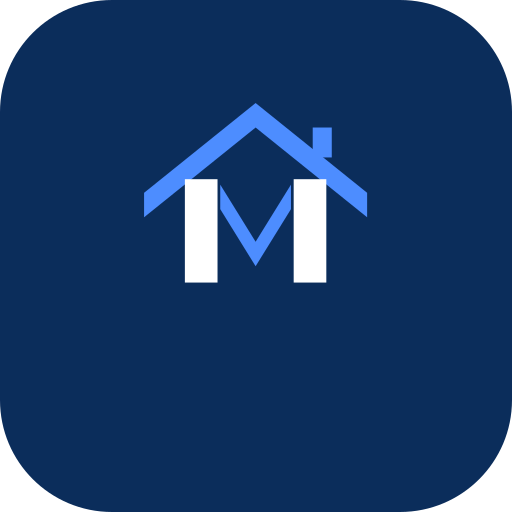
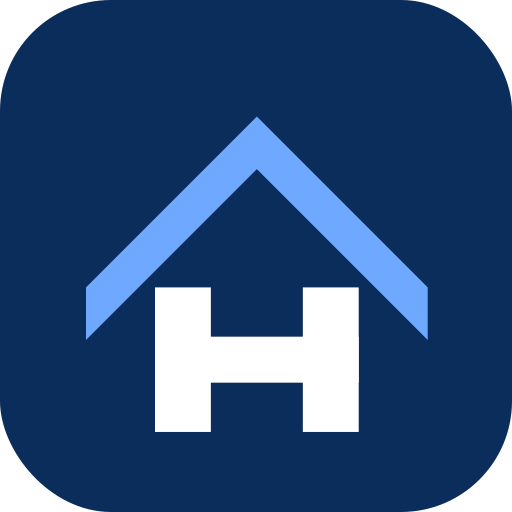
Brand: rediseñar marca HELPMAN para máxima legibilidad
- Nueva marca: casa geométrica gruesa con H integrada (antes: detalles
  finos que se volvían mancha irreconocible bajo 100px)
- Nuevo lockup: marca 35% más grande respecto al texto
- Favicon/íconos: casa blanca sobre fondo navy redondeado, legible
  hasta 16px
- Header: logo 50px desktop / 42px móvil (antes 42/34)
- Regenerados: apple-touch-icon, icon-192/512, helpman-mark.png,
  helpman-logo-primary.png

diff --git a/public/css/helpman-v2.css b/public/css/helpman-v2.css
@@ -33,5 +33,5 @@ body{color:var(--hm-ink);background:#fff}
 .site-footer .wrap{grid-template-columns:1.4fr repeat(3,1fr)}.hm-footer-brand{font-weight:900;font-size:1.25rem;letter-spacing:-.035em}.hm-legal-operator{color:inherit;opacity:.72;font-size:.78rem}
 @media(max-width:900px){.hm-hero-grid,.hm-protection{grid-template-columns:1fr}.hm-value-grid{grid-template-columns:1fr}.hm-request-card{max-width:620px}.site-footer .wrap{grid-template-columns:1fr 1fr}}
 @media(max-width:620px){.hm-hero{padding-top:3.4rem}.hm-request-meta{grid-template-columns:1fr}.hm-hero-actions .btn{width:100%;justify-content:center}.site-footer .wrap{grid-template-columns:1fr}.hm-operator{display:none}}
-.helpman-logo{display:block;height:42px;width:auto}
-@media(max-width:620px){.helpman-logo{height:34px}}
+.helpman-logo{display:block;height:50px;width:auto}
+@media(max-width:620px){.helpman-logo{height:42px}}
